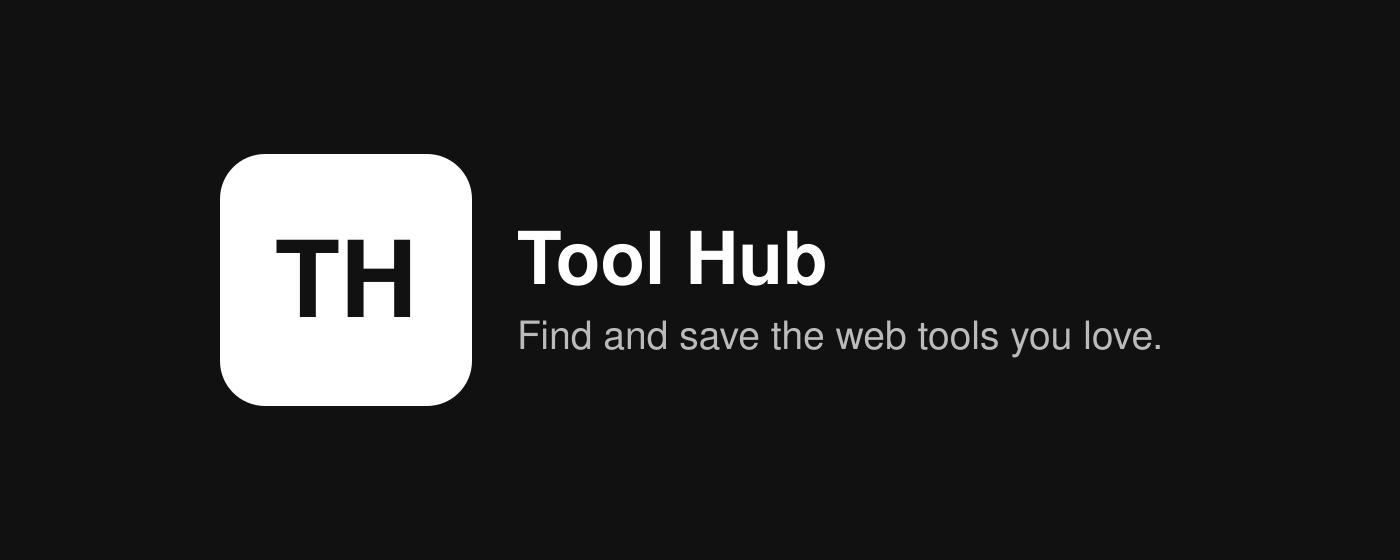
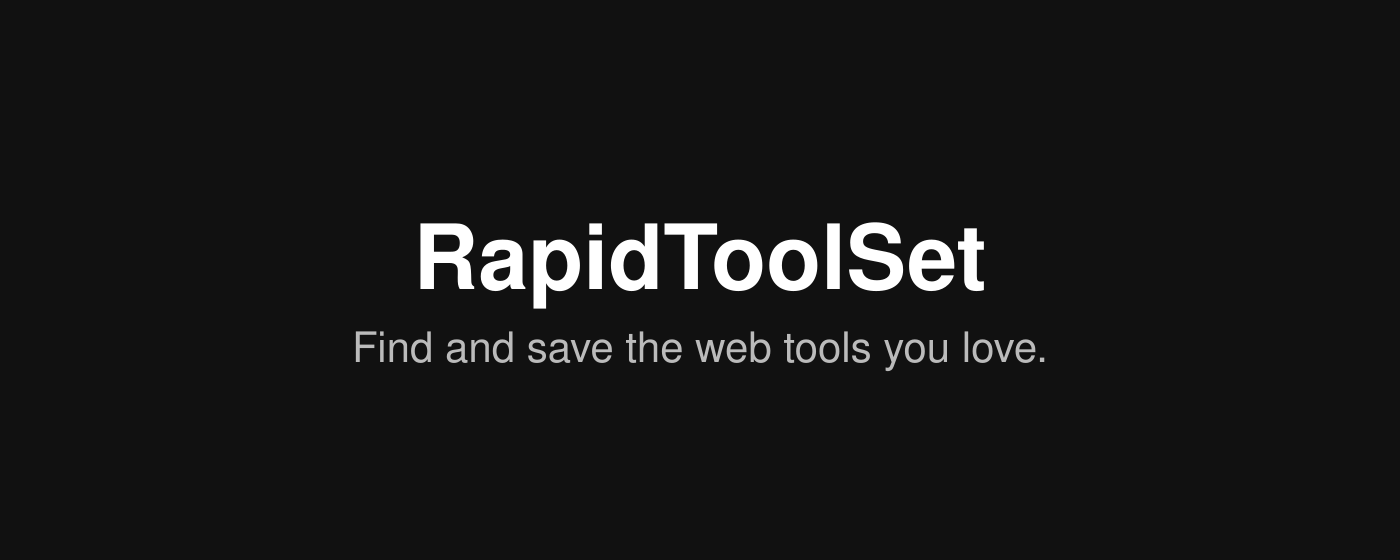
refactor: update promo tile generation logic and remove unused initials handling

Changed region(s): [[0.1536, 0.2732, 0.8293, 0.7286]]

diff --git a/scripts/generate-promo-tiles.ts b/scripts/generate-promo-tiles.ts
@@ -5,8 +5,8 @@
  *   - Small promo tile:   440x280
  *   - Marquee promo tile: 1400x560
  *
- * Design matches the icon generator: black background, rounded badge with
- * white initials, plus the extension name and a short tagline.
+ * Design is text-only: black background, the extension name, and a short
+ * tagline.
  *
  * Output: extensions/<slug>/public/promo-small.png
  *         extensions/<slug>/public/promo-marquee.png
@@ -34,12 +34,6 @@ const TILES: TileSpec[] = [
   { file: 'promo-marquee.png', width: 1400, height: 560 },
 ]
 
-/** Override auto-generated initials for specific extensions. */
-const INITIALS_OVERRIDE: Record<string, string> = {
-  'pihole-manager': 'PI',
-  'ollama-client': 'LM',
-}
-
 /** Override auto-derived display name for specific extensions. */
 const NAME_OVERRIDE: Record<string, string> = {
   'pihole-manager': 'Pi-hole Manager',
@@ -54,12 +48,6 @@ const TAGLINE_OVERRIDE: Record<string, string> = {
   'table-extractor': 'Export any web table to CSV or XLSX.',
   'rapidtoolset': 'Find and save the web tools you love.',
   'website-blocker': 'Block distractions. Reclaim your focus.',
-}
-
-function getInitials(name: string): string {
-  const words = name.split(/\s+/).filter(Boolean)
-  if (words.length >= 2) return (words[0][0] + words[1][0]).toUpperCase()
-  return name.slice(0, 2).toUpperCase()
 }
 
 function slugToName(slug: string): string {
@@ -137,20 +125,10 @@ function wrap(text: string, maxChars: number, maxLines: number): string[] {
 function buildTileSvg(opts: {
   width: number
   height: number
-  initials: string
   name: string
   tagline: string
 }): string {
-  const { width, height, initials, name, tagline } = opts
-
-  // Badge sizing.
-  const badgeSize = Math.round(height * 0.45)
-  const badgeRadius = Math.round(badgeSize * 0.18)
-  const badgeFontSize = Math.round(badgeSize * 0.42)
-  const badgeDy = Math.round(badgeFontSize * 0.35)
-
-  // Gap between badge and text block.
-  const badgeTextGap = Math.round(height * 0.08)
+  const { width, height, name, tagline } = opts
 
   // Approximate character widths (em units) for the system sans stack.
   // These are deliberately conservative — overestimating makes the auto-
@@ -163,18 +141,18 @@ function buildTileSvg(opts: {
   // Use modest side padding as a hard cap; the composition will still be
   // visually centered based on actual content width. Smaller tiles get a
   // proportionally larger padding ratio so the content doesn't feel cramped.
-  const sidePaddingRatio = width < 800 ? 0.09 : 0.05
+  const sidePaddingRatio = width < 800 ? 0.1 : 0.075
   const sidePadding = Math.round(width * sidePaddingRatio)
   const maxContentWidth = width - sidePadding * 2
-  const maxTextWidth = maxContentWidth - badgeSize - badgeTextGap
+  const maxTextWidth = maxContentWidth
 
-  let nameFontSize = Math.round(height * 0.13)
-  const nameMin = Math.round(height * 0.08)
+  let nameFontSize = Math.round(height * 0.16)
+  const nameMin = Math.round(height * 0.1)
   while (nameFontSize > nameMin && name.length * NAME_CHAR_EM * nameFontSize > maxTextWidth) {
     nameFontSize -= 1
   }
 
-  const taglineFontSize = Math.round(height * 0.07)
+  const taglineFontSize = Math.round(height * (width < 800 ? 0.062 : 0.075))
   const lineGap = Math.round(taglineFontSize * 0.4)
 
   const taglineChars = Math.max(12, Math.floor(maxTextWidth / (taglineFontSize * TAGLINE_CHAR_EM)))
@@ -187,13 +165,7 @@ function buildTileSvg(opts: {
     0,
   )
   const textBlockWidth = Math.min(maxTextWidth, Math.max(nameWidth, taglineWidth))
-  const totalContentWidth = badgeSize + badgeTextGap + textBlockWidth
-
-  // Center the badge + text composition horizontally.
-  const contentX = Math.round((width - totalContentWidth) / 2)
-  const badgeX = contentX
-  const badgeY = Math.round((height - badgeSize) / 2)
-  const textX = badgeX + badgeSize + badgeTextGap
+  const textX = Math.round(width / 2)
 
   // Vertically center the text block (name + gap + tagline lines).
   const taglineBlockHeight =
@@ -214,26 +186,17 @@ function buildTileSvg(opts: {
 
   return `<svg xmlns="http://www.w3.org/2000/svg" width="${width}" height="${height}" viewBox="0 0 ${width} ${height}">
   <rect width="${width}" height="${height}" fill="#111111"/>
-  <rect x="${badgeX}" y="${badgeY}" width="${badgeSize}" height="${badgeSize}" rx="${badgeRadius}" ry="${badgeRadius}" fill="#ffffff"/>
   <text
-    x="${badgeX + badgeSize / 2}" y="${badgeY + badgeSize / 2}"
-    dy="${badgeDy}"
+    x="${width / 2}" y="${nameBaselineY}"
     text-anchor="middle"
-    font-family="system-ui, -apple-system, 'Segoe UI', Helvetica, Arial, sans-serif"
-    font-size="${badgeFontSize}"
-    font-weight="700"
-    fill="#111111"
-    letter-spacing="1"
-  >${escapeXml(initials)}</text>
-  <text
-    x="${textX}" y="${nameBaselineY}"
     font-family="system-ui, -apple-system, 'Segoe UI', Helvetica, Arial, sans-serif"
     font-size="${nameFontSize}"
     font-weight="700"
     fill="#ffffff"
   >${escapeXml(name)}</text>
   <text
-    x="${textX}" y="${taglineStartY}"
+    x="${width / 2}" y="${taglineStartY}"
+    text-anchor="middle"
     font-family="system-ui, -apple-system, 'Segoe UI', Helvetica, Arial, sans-serif"
     font-size="${taglineFontSize}"
     font-weight="400"
@@ -265,8 +228,6 @@ async function generateTilesFor(slug: string) {
     : undefined
   const tagline = TAGLINE_OVERRIDE[slug] ?? rawDesc ?? localeMeta.description ?? ''
 
-  const initials = INITIALS_OVERRIDE[slug] ?? getInitials(name)
-
   const outDir = path.join(EXTENSIONS_DIR, slug, 'public')
   if (!fs.existsSync(outDir)) fs.mkdirSync(outDir, { recursive: true })
 
@@ -275,7 +236,6 @@ async function generateTilesFor(slug: string) {
       const svg = buildTileSvg({
         width: tile.width,
         height: tile.height,
-        initials,
         name,
         tagline,
       })
@@ -284,7 +244,7 @@ async function generateTilesFor(slug: string) {
     }),
   )
 
-  console.log(`  ✔ ${slug} (${initials}) → ${TILES.map((t) => `${t.width}x${t.height}`).join(', ')}`)
+  console.log(`  ✔ ${slug} → ${TILES.map((t) => `${t.width}x${t.height}`).join(', ')}`)
 }
 
 async function main() {
